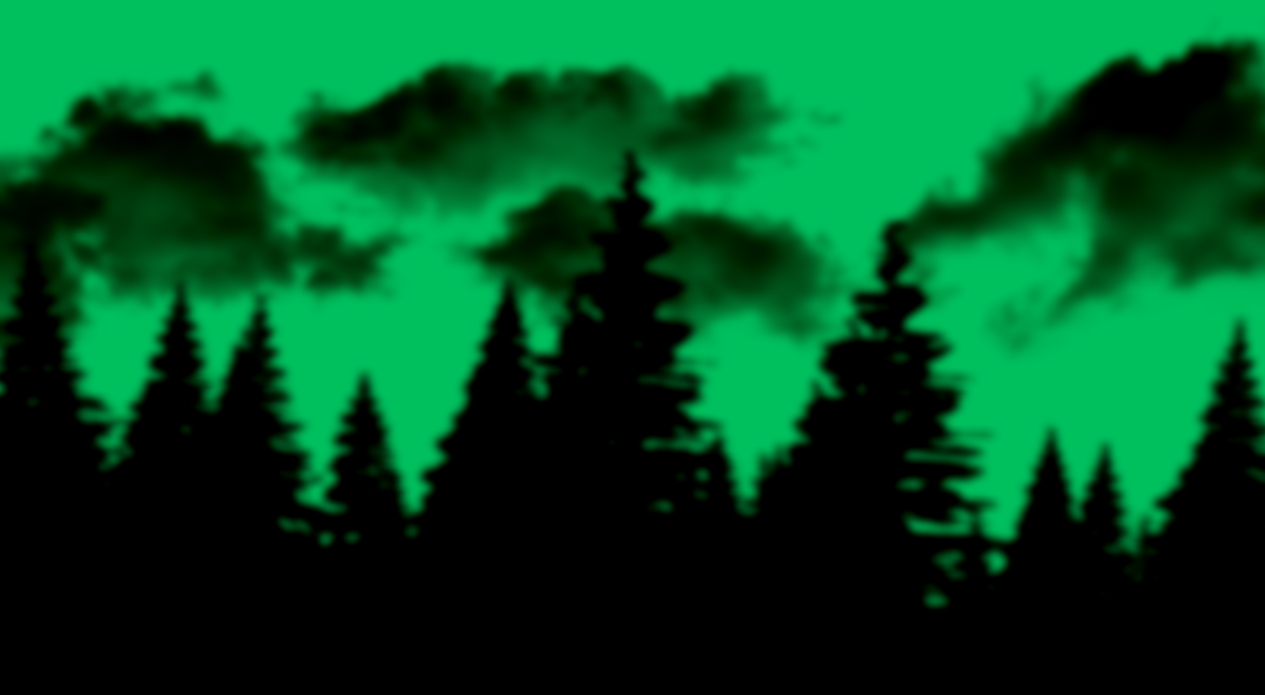
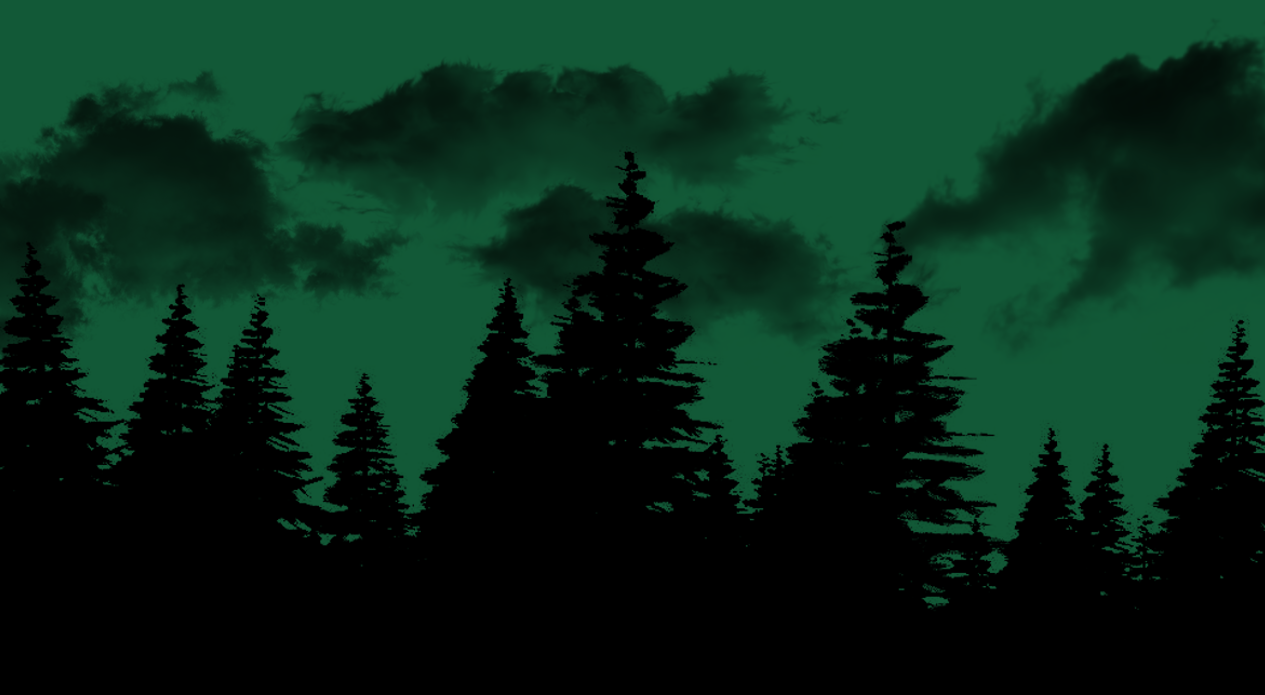
Fixed main.css & Changed the sitebackground.png

diff --git a/main.css b/main.css
@@ -1,9 +1,16 @@
 @charset "utf-8";
 /* CSS Document */
-
+*{
+	box-sizing: border-box;
+}
 body{
-	background: url("sitebackground.png") no-repeat fixed top right;}
+	background: url("sitebackground.png") no-repeat fixed top right;
+}
 container{
 width: 800px;
 	margin: 0 auto;
+}
+.left{
+	width:480px;
+	height: 200px;
 }
